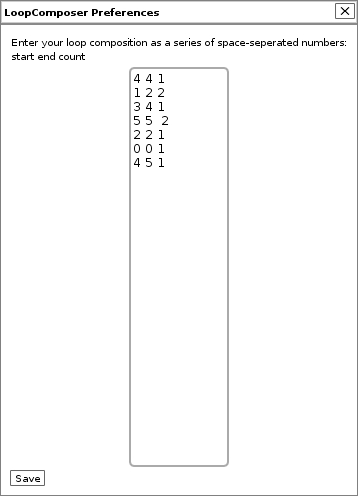
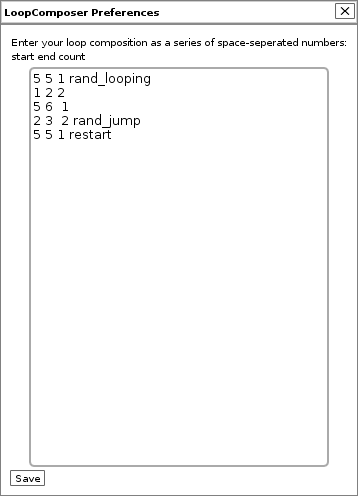
Added save config based on song file name

Changed region(s): [[0.0615, 0.121, 0.4609, 0.9677], [0.6145, 0.121, 0.9218, 0.9375], [0.6453, 0.9375, 0.8911, 0.9677]]

diff --git a/lua/com.neurogami.LoopComposer.xrnx/README.md b/lua/com.neurogami.LoopComposer.xrnx/README.md
@@ -29,27 +29,46 @@ It's super basic.
 It's a single text field.
 
 A composition is a series of lines.
-Each line has exactly three numbers, separated by spaces.
+Each line has three numbers, separated by spaces.
+
+You may add an optional fourth item: the name of a function.
 
 For example:
 
       1 2 2
-      4 4 1
+      4 4 1 rand_looping
       3 4 2
       1 1 2
       4 5 1
       1 1 1
-      5 5 1
+      5 5 1 restart
 
 The first two numbers are the start and end patterns for a loop.
 
 The third number is how many times that loop should run before moving on to the next loop.
+
+The optional function name will get called after the loop has run the given number of times.  
 
 Blank lines are (or should be) ignored.  The code does not try hard to catch or fix possible mistakes.
 
 Once you have created a composition, click the "Save" button.
 
 Navigate back to the `LoopComposer` menu and click "Run" to start your composition.
+
+
+### Built-in helper functions
+
+
+These are the helper functions defined so far:
+
+ `restart`: Resets the loop pointer back to the first loop defininition in your compostion.
+
+ `rand_looping`:  Defines a 50/50 change of resetting the loop pointer back to the current loop definition
+
+ `rand_jump`: Sets the loop pointer to a random loop in your composition
+
+
+
 
 
 
